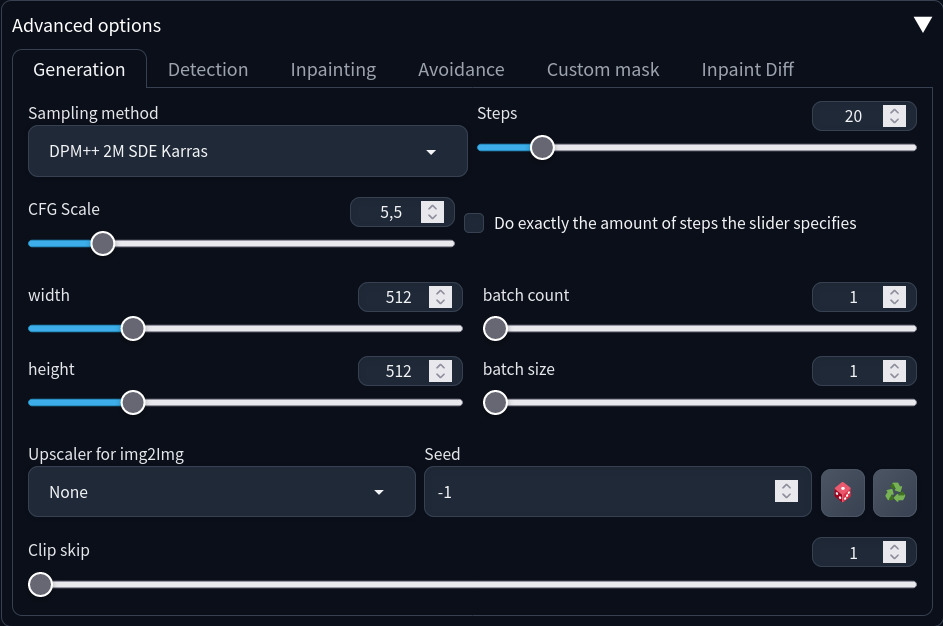
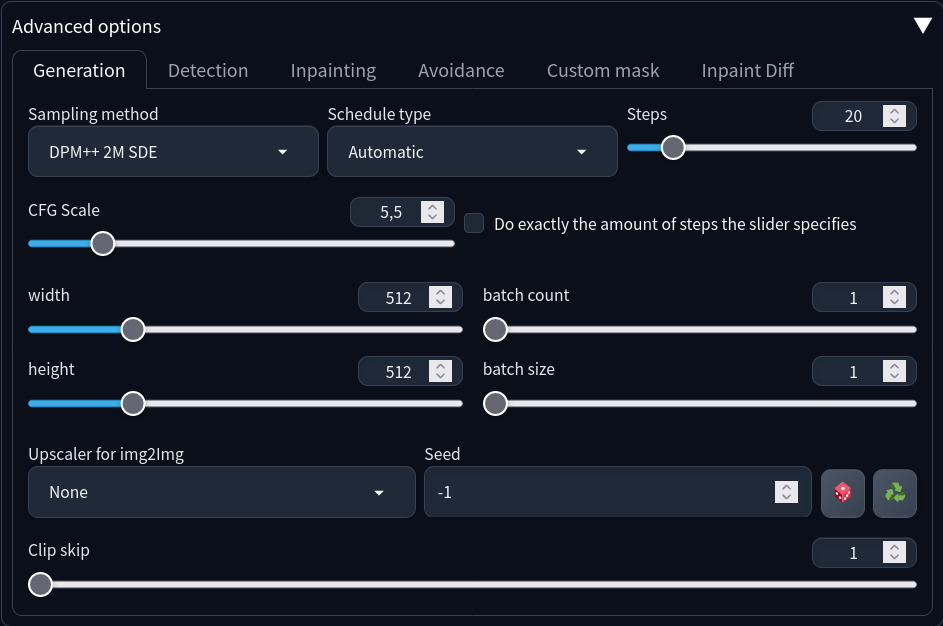
Add webui 1.9 scheduler support

diff --git a/replacer/tab_ui.py b/replacer/tab_ui.py
@@ -15,9 +15,12 @@ from replacer.options import (EXT_NAME, EXT_NAME_LOWER, getSaveDir, getDetection
     getPositivePromptExamplesNumber, getNegativePromptExamplesNumber, getMaskColorStr
 )
 from replacer import replacer_scripts
-from replacer.tools import limitSizeByOneDemention, OuputPanelWatcher
+from replacer.tools import limitSizeByOneDemention, OuputPanelWatcher, IS_WEBUI_1_9
 from replacer.generate_ui import generate_ui
 
+
+if IS_WEBUI_1_9:
+    from modules import sd_schedulers
 
 try:
     from modules import ui_toprow
@@ -187,12 +190,24 @@ def getReplacerTabUI(isDedicatedPage):
                     with gr.Tabs(elem_id="replacer_advanced_options_tabs"):
                         with gr.Tab('Generation'):
                             with gr.Row():
+                                sampler_names = [x.name for x in sd_samplers.visible_samplers()]
+                                defaultSampler = "DPM++ 2M SDE" if IS_WEBUI_1_9 else "DPM++ 2M SDE Karras"
                                 sampler = gr.Dropdown(
                                     label='Sampling method',
                                     elem_id="replacer_sampler",
-                                    choices=sd_samplers.visible_sampler_names(),
-                                    value="DPM++ 2M SDE Karras"
+                                    choices=sampler_names,
+                                    value=defaultSampler
                                 )
+
+                                if IS_WEBUI_1_9:
+                                    scheduler_names = [x.label for x in sd_schedulers.schedulers]
+                                    scheduler = gr.Dropdown(
+                                        label='Schedule type',
+                                        elem_id=f"replacer_scheduler",
+                                        choices=scheduler_names,
+                                        value=scheduler_names[0])
+                                else:
+                                    scheduler = gr.Textbox("", visible=False)
 
                                 steps = gr.Slider(
                                     label='Steps',
@@ -641,6 +656,16 @@ def getReplacerTabUI(isDedicatedPage):
                                         choices=["Use same sampler"] + sd_samplers.visible_sampler_names(),
                                         value="Use same sampler"
                                     )
+                                    if IS_WEBUI_1_9:
+                                        hf_scheduler = gr.Dropdown(
+                                            label='Hires schedule type',
+                                            elem_id="replacer_hf_scheduler",
+                                            choices=["Use same scheduler"] + [x.label for x in sd_schedulers.schedulers],
+                                            value="Use same scheduler"
+                                        )
+                                    else:
+                                        hf_scheduler = gr.Textbox("", visible=False)
+
                                     hf_cfg_scale = gr.Slider(
                                         label='Hires CFG Scale',
                                         value=1.0,
@@ -649,6 +674,8 @@ def getReplacerTabUI(isDedicatedPage):
                                         maximum=30.0,
                                         elem_id="replacer_hf_cfg_scale"
                                     )
+
+                                with gr.Row():
                                     hf_unload_detection_models = gr.Checkbox(
                                         label='Unload detection models before hires fix',
                                         value=True,
@@ -784,6 +811,7 @@ def getReplacerTabUI(isDedicatedPage):
                 upscaler_for_img2img,
                 seed,
                 sampler,
+                scheduler,
                 steps,
                 box_threshold,
                 mask_expand,
@@ -820,6 +848,7 @@ def getReplacerTabUI(isDedicatedPage):
                 hf_upscaler,
                 hf_steps,
                 hf_sampler,
+                hf_scheduler,
                 hf_denoise,
                 hf_cfg_scale,
                 hfPositivePromptSuffix,
@@ -858,6 +887,7 @@ def getReplacerTabUI(isDedicatedPage):
                 hf_upscaler,
                 hf_steps,
                 hf_sampler,
+                hf_scheduler,
                 hf_denoise,
                 hf_cfg_scale,
                 hfPositivePromptSuffix,

diff --git a/scripts/replacer_api.py b/scripts/replacer_api.py
@@ -6,7 +6,7 @@ from modules import shared
 from modules.api.api import encode_pil_to_base64, decode_base64_to_image
 from replacer.generate import generate
 from replacer.generation_args import GenerationArgs, HiresFixArgs
-from replacer.tools import generateSeed
+from replacer.tools import generateSeed, IS_WEBUI_1_9
 from replacer import replacer_scripts
 
 
@@ -32,7 +32,8 @@ def replacer_api(_, app: FastAPI):
         sam_model_name: str = sam_model_list[0] if sam_model_list else ""
         dino_model_name: str = dino_model_list[0]
         seed: int = -1
-        sampler: str = "DPM++ 2M SDE Karras"
+        sampler: str = "DPM++ 2M SDE" if IS_WEBUI_1_9 else "DPM++ 2M SDE Karras"
+        scheduler: str = "Automatic"
         steps: int = 20
         box_threshold: float = 0.3
         mask_expand: int = 35
@@ -55,6 +56,7 @@ def replacer_api(_, app: FastAPI):
         hf_upscaler: str = "ESRGAN_4x"
         hf_steps: int = 4
         hf_sampler: str = "Use same sampler"
+        hf_scheduler: str = "Use same scheduler"
         hf_denoise: float = 0.35
         hf_cfg_scale: float = 1.0
         hf_positive_prompt_suffix: str = "<lora:lcm-lora-sdv1-5:1>"
@@ -87,6 +89,7 @@ def replacer_api(_, app: FastAPI):
             upscaler = data.hf_upscaler,
             steps = data.hf_steps,
             sampler = data.hf_sampler,
+            scheduler=data.hf_scheduler,
             denoise = data.hf_denoise,
             cfg_scale = data.hf_cfg_scale,
             positive_prompt_suffix = data.hf_positive_prompt_suffix,
@@ -119,6 +122,7 @@ def replacer_api(_, app: FastAPI):
             
             steps=data.steps,
             sampler_name=data.sampler,
+            scheduler=data.scheduler,
             mask_blur=data.mask_blur,
             inpainting_fill=data.inpainting_fill,
             batch_count=1,

diff --git a/replacer/generate_ui.py b/replacer/generate_ui.py
@@ -43,6 +43,7 @@ def generate_ui(
     upscalerForImg2Img,
     seed,
     sampler,
+    scheduler,
     steps,
     box_threshold,
     mask_expand,
@@ -79,6 +80,7 @@ def generate_ui(
     hf_upscaler,
     hf_steps,
     hf_sampler,
+    hf_scheduler,
     hf_denoise,
     hf_cfg_scale,
     hf_positive_prompt_suffix,
@@ -182,6 +184,7 @@ def generate_ui(
         upscaler = hf_upscaler,
         steps = hf_steps,
         sampler = hf_sampler,
+        scheduler = hf_scheduler,
         denoise = hf_denoise,
         cfg_scale = hf_cfg_scale,
         positive_prompt_suffix = hf_positive_prompt_suffix,
@@ -214,6 +217,7 @@ def generate_ui(
         
         steps=steps,
         sampler_name=sampler,
+        scheduler=scheduler,
         mask_blur=mask_blur,
         inpainting_fill=inpainting_fill,
         batch_count=batch_count,
@@ -274,12 +278,9 @@ def generate_ui(
         save_video(video_output_dir, fps_out, input_video, save_video_path, seed)
 
     global lastGenerationArgs
-    if not pass_into_hires_fix_automatically:
-        gArgs.appropriateInputImageDataList = [x.appropriateInputImageData for x in processed.images]
-        lastGenerationArgs = gArgs
-        lastGenerationArgs.hiresFixCacheData = HiresFixCacheData(gArgs.upscalerForImg2Img, processed.images[0], 0)
-    else:
-        lastGenerationArgs = None
+    gArgs.appropriateInputImageDataList = [x.appropriateInputImageData for x in processed.images]
+    lastGenerationArgs = gArgs
+    lastGenerationArgs.hiresFixCacheData = HiresFixCacheData(gArgs.upscalerForImg2Img, processed.images[0], 0)
 
     if tab_index == 3:
         return [], "", plaintext_to_html(f"Saved into {save_video_path}"), ""

diff --git a/replacer/inpaint.py b/replacer/inpaint.py
@@ -7,7 +7,7 @@ from modules.images import save_image
 from modules import errors
 from replacer.generation_args import GenerationArgs
 from replacer import replacer_scripts
-from replacer.tools import addReplacerMetadata
+from replacer.tools import addReplacerMetadata, IS_WEBUI_1_9
 
 
 
@@ -31,6 +31,7 @@ def inpaint(
     override_settings["CLIP_stop_at_last_layers"] = gArgs.clip_skip
 
     mask = gArgs.mask.resize(image.size).convert('L')
+    schedulerKWargs = {"scheduler": gArgs.scheduler} if IS_WEBUI_1_9 else {}
 
     p = StableDiffusionProcessingImg2Img(
         sd_model=shared.sd_model,
@@ -58,6 +59,7 @@ def inpaint(
         inpainting_mask_invert=gArgs.inpainting_mask_invert,
         override_settings=override_settings,
         do_not_save_samples=True,
+        **schedulerKWargs,
     )
 
     p.extra_generation_params["Mask blur"] = gArgs.mask_blur

diff --git a/replacer/apply_hires_fix.py b/replacer/apply_hires_fix.py
@@ -20,6 +20,7 @@ def applyHiresFix(
     hf_upscaler,
     hf_steps,
     hf_sampler,
+    hf_scheduler,
     hf_denoise,
     hf_cfg_scale,
     hf_positive_prompt_suffix,
@@ -50,6 +51,7 @@ def applyHiresFix(
         upscaler = hf_upscaler,
         steps = hf_steps,
         sampler = hf_sampler,
+        scheduler = hf_scheduler,
         denoise = hf_denoise,
         cfg_scale = hf_cfg_scale,
         positive_prompt_suffix = hf_positive_prompt_suffix,

diff --git a/replacer/hires_fix.py b/replacer/hires_fix.py
@@ -21,6 +21,8 @@ def getGenerationArgsForHiresFixPass(gArgs: GenerationArgs) -> GenerationArgs:
     hrGArgs.denoising_strength = hf.denoise
     if not hf.sampler == 'Use same sampler':
         hrGArgs.sampler_name = hf.sampler
+    if not hf.scheduler == 'Use same scheduler':
+        hrGArgs.scheduler == hf.scheduler
     if hf.steps != 0:
         hrGArgs.steps = hf.steps
     if hf.extra_mask_expand != 0:

diff --git a/replacer/generation_args.py b/replacer/generation_args.py
@@ -8,6 +8,7 @@ class HiresFixArgs:
     upscaler: str
     steps: int
     sampler: str
+    scheduler: str
     denoise: float
     cfg_scale: float
     positive_prompt_suffix: str
@@ -54,6 +55,7 @@ class GenerationArgs:
     maxResolutionOnDetection: int
     steps: int
     sampler_name: str
+    scheduler: str
     mask_blur: int
     inpainting_fill: int
     batch_count: int

diff --git a/replacer/tools.py b/replacer/tools.py
@@ -15,6 +15,8 @@ except Exception:
     REPLACER_VERSION = "None"
 
 
+IS_WEBUI_1_9 = hasattr(shared.cmd_opts, 'unix_filenames_sanitization')
+
 
 def addReplacerMetadata(p, gArgs: GenerationArgs):
     p.extra_generation_params["Extension"] = f'sd-webui-replacer {REPLACER_VERSION}'

diff --git a/docs/api.md b/docs/api.md
@@ -14,7 +14,8 @@ API is avaliable on `/replacer/replace`
     sam_model_name: str = sam_model_list[0] if sam_model_list else ""
     dino_model_name: str = dino_model_list[0]
     seed: int = -1
-    sampler: str = "DPM++ 2M SDE Karras"
+    sampler: str = "DPM++ 2M SDE" if IS_WEBUI_1_9 else "DPM++ 2M SDE Karras"
+    scheduler: str = "Automatic"
     steps: int = 20
     box_threshold: float = 0.3
     mask_expand: int = 35
@@ -37,6 +38,7 @@ API is avaliable on `/replacer/replace`
     hf_upscaler: str = "ESRGAN_4x"
     hf_steps: int = 4
     hf_sampler: str = "Use same sampler"
+    hf_scheduler: str = "Use same scheduler"
     hf_denoise: float = 0.35
     hf_cfg_scale: float = 1.0
     hf_positive_prompt_suffix: str = "<lora:lcm-lora-sdv1-5:1>"
